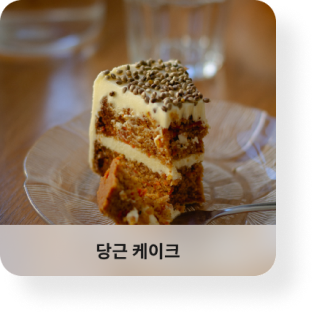
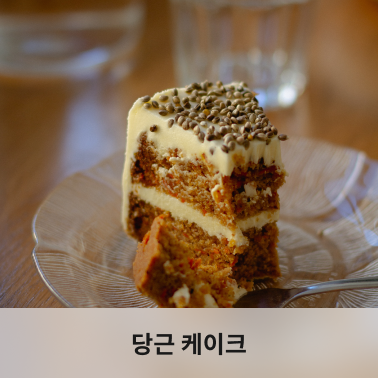
슬라이드 사진 변경, 그림자 설정

diff --git a/Recipe/popular.html b/Recipe/popular.html
@@ -29,7 +29,7 @@
       
     </div>
     <div class="popluar-items">
-      <img src="image/popluar_patato_soup.png" class="popluar-img" alt="">
+      <img src="image/popluar_potapo_soup.png" class="popluar-img" alt="">
       
     </div>
     <div class="popluar-items">

diff --git a/Recipe/css/popular.css b/Recipe/css/popular.css
@@ -36,6 +36,9 @@
 .for_slick_slider .popluar-items .popluar-img{
   width : 278px;
   height: 280px;
+  border-radius: 30px;
+  box-shadow: 20px 20px 20px rgba(0, 0, 0, 0.1) ;
+  
 }
 .for_slick_slider .slick-center .popluar-img{
   transform : scale(1.2);
